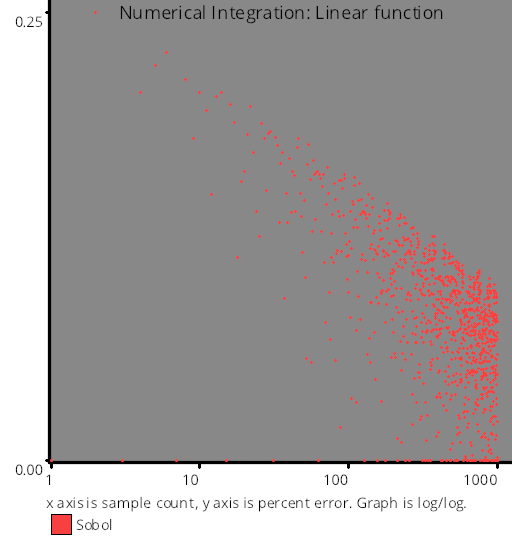
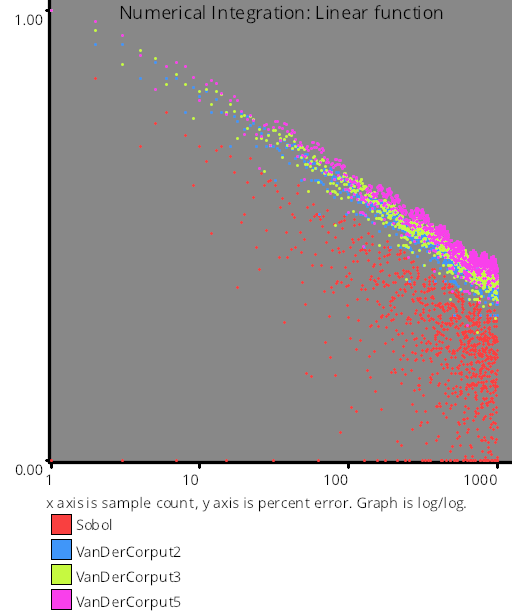
adding VDC base 2,3,5

diff --git a/src/samples/_1d/LDS/LDS.cpp b/src/samples/_1d/LDS/LDS.cpp
@@ -19,6 +19,23 @@ static size_t Ruler(size_t n)
     return ret;
 }
 
+static void VanDerCorput(std::vector<float>& values, size_t base)
+{
+    for (size_t i = 0; i < values.size(); ++i)
+    {
+        values[i] = 0.0f;
+        float denominator = float(base);
+        size_t n = i;
+        while (n > 0)
+        {
+            size_t multiplier = n % base;
+            values[i] += float(multiplier) / denominator;
+            n = n / base;
+            denominator *= base;
+        }
+    }
+}
+
 void Samples::_1d::LDS::Sobol(std::vector<float>& values, size_t numValues)
 {
     values.resize(numValues);
@@ -30,4 +47,22 @@ void Samples::_1d::LDS::Sobol(std::vector<float>& values, size_t numValues)
         sampleInt = sampleInt ^ direction;
         values[i] = float(sampleInt) / std::pow(2.0f, 32.0f);
     }
+}
+
+void Samples::_1d::LDS::VanDerCorput2(std::vector<float>& values, size_t numValues)
+{
+    values.resize(numValues);
+    VanDerCorput(values, 2);
+}
+
+void Samples::_1d::LDS::VanDerCorput3(std::vector<float>& values, size_t numValues)
+{
+    values.resize(numValues);
+    VanDerCorput(values, 3);
+}
+
+void Samples::_1d::LDS::VanDerCorput5(std::vector<float>& values, size_t numValues)
+{
+    values.resize(numValues);
+    VanDerCorput(values, 5);
 }

diff --git a/src/main.cpp b/src/main.cpp
@@ -17,7 +17,15 @@ int main(int argc, char **argv)
 /*
 TODO:
 
+* finish getting the 1d sampling types from your post: https://blog.demofox.org/2017/05/29/when-random-numbers-are-too-random-low-discrepancy-sequences/
+
+* document "regular jittered" and mention pixar.
+
+* document van der corupt base 2, 3, 5 and mention stuff from https://blog.demofox.org/2017/05/29/when-random-numbers-are-too-random-low-discrepancy-sequences/
+
 * note properties of sample types in the documentation. randomized / progressize.
+
+* put in todos: could multithread the auto tests!
 
 * progressive and non progressive sequences ...
  * should have integration graphed differently.  Progressive = partial sequence. Non progressive = full sequence.

diff --git a/output/samples/_1d/lds/page.md b/output/samples/_1d/lds/page.md
@@ -3,9 +3,21 @@
 # Test Results
  samples tested:
 * Sobol (Progressive, Not Randomized)
+* VanDerCorput2 (Progressive, Not Randomized)
+* VanDerCorput3 (Progressive, Not Randomized)
+* VanDerCorput5 (Progressive, Not Randomized)
 ## Sobol
 ### Numberline
 ![Sobol](../../../samples/_1d/lds/MakeNumberline_Sobol.png)  
+## VanDerCorput2
+### Numberline
+![VanDerCorput2](../../../samples/_1d/lds/MakeNumberline_VanDerCorput2.png)  
+## VanDerCorput3
+### Numberline
+![VanDerCorput3](../../../samples/_1d/lds/MakeNumberline_VanDerCorput3.png)  
+## VanDerCorput5
+### Numberline
+![VanDerCorput5](../../../samples/_1d/lds/MakeNumberline_VanDerCorput5.png)  
 ## Discrepancy Test
 ### CalculateDiscrepancy
 ![lds](../../../samples/_1d/lds/CalculateDiscrepancy.png)  

diff --git a/output/samples/_1d/lds/results.md b/output/samples/_1d/lds/results.md
@@ -1,9 +1,21 @@
 # Test Results
  samples tested:
 * Sobol (Progressive, Not Randomized)
+* VanDerCorput2 (Progressive, Not Randomized)
+* VanDerCorput3 (Progressive, Not Randomized)
+* VanDerCorput5 (Progressive, Not Randomized)
 ## Sobol
 ### Numberline
 ![Sobol](../../../samples/_1d/lds/MakeNumberline_Sobol.png)  
+## VanDerCorput2
+### Numberline
+![VanDerCorput2](../../../samples/_1d/lds/MakeNumberline_VanDerCorput2.png)  
+## VanDerCorput3
+### Numberline
+![VanDerCorput3](../../../samples/_1d/lds/MakeNumberline_VanDerCorput3.png)  
+## VanDerCorput5
+### Numberline
+![VanDerCorput5](../../../samples/_1d/lds/MakeNumberline_VanDerCorput5.png)  
 ## Discrepancy Test
 ### CalculateDiscrepancy
 ![lds](../../../samples/_1d/lds/CalculateDiscrepancy.png)  

diff --git a/output/tests/_1d/numberline/page.md b/output/tests/_1d/numberline/page.md
@@ -21,6 +21,12 @@ The first sample is red and the last sample is green. This lets you see the orde
 ### Low Discrepancy Sequences
 #### Sobol
 ![Sobol](../../../samples/_1d/lds/MakeNumberline_Sobol.png)  
+#### VanDerCorput2
+![VanDerCorput2](../../../samples/_1d/lds/MakeNumberline_VanDerCorput2.png)  
+#### VanDerCorput3
+![VanDerCorput3](../../../samples/_1d/lds/MakeNumberline_VanDerCorput3.png)  
+#### VanDerCorput5
+![VanDerCorput5](../../../samples/_1d/lds/MakeNumberline_VanDerCorput5.png)  
 ### Regular Sampling
 #### Regular
 ![Regular](../../../samples/_1d/regular/MakeNumberline_Regular.png)  

diff --git a/output/tests/_1d/numberline/results.md b/output/tests/_1d/numberline/results.md
@@ -17,6 +17,12 @@
 ### Low Discrepancy Sequences
 #### Sobol
 ![Sobol](../../../samples/_1d/lds/MakeNumberline_Sobol.png)  
+#### VanDerCorput2
+![VanDerCorput2](../../../samples/_1d/lds/MakeNumberline_VanDerCorput2.png)  
+#### VanDerCorput3
+![VanDerCorput3](../../../samples/_1d/lds/MakeNumberline_VanDerCorput3.png)  
+#### VanDerCorput5
+![VanDerCorput5](../../../samples/_1d/lds/MakeNumberline_VanDerCorput5.png)  
 ### Regular Sampling
 #### Regular
 ![Regular](../../../samples/_1d/regular/MakeNumberline_Regular.png)  
